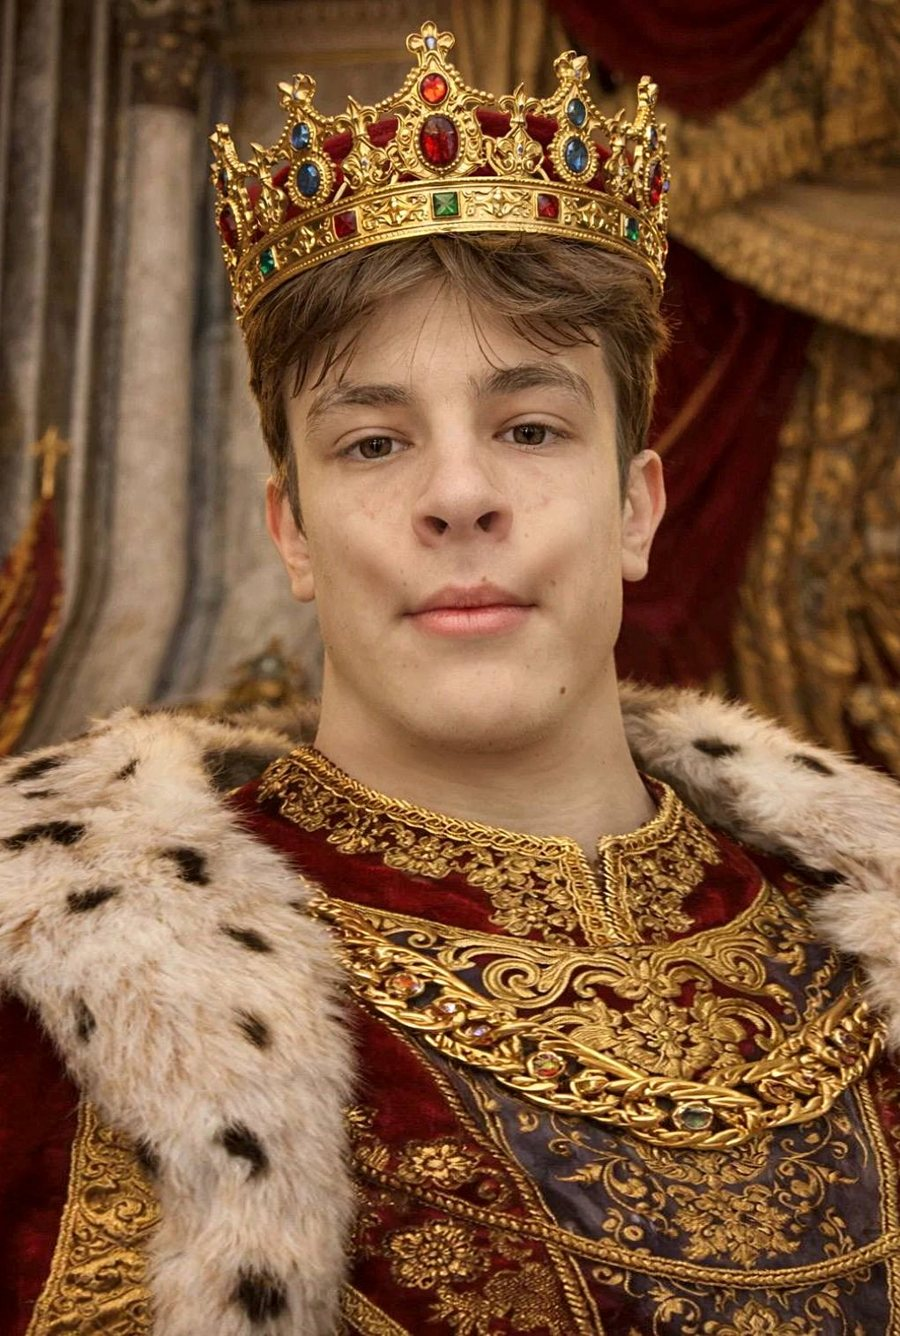
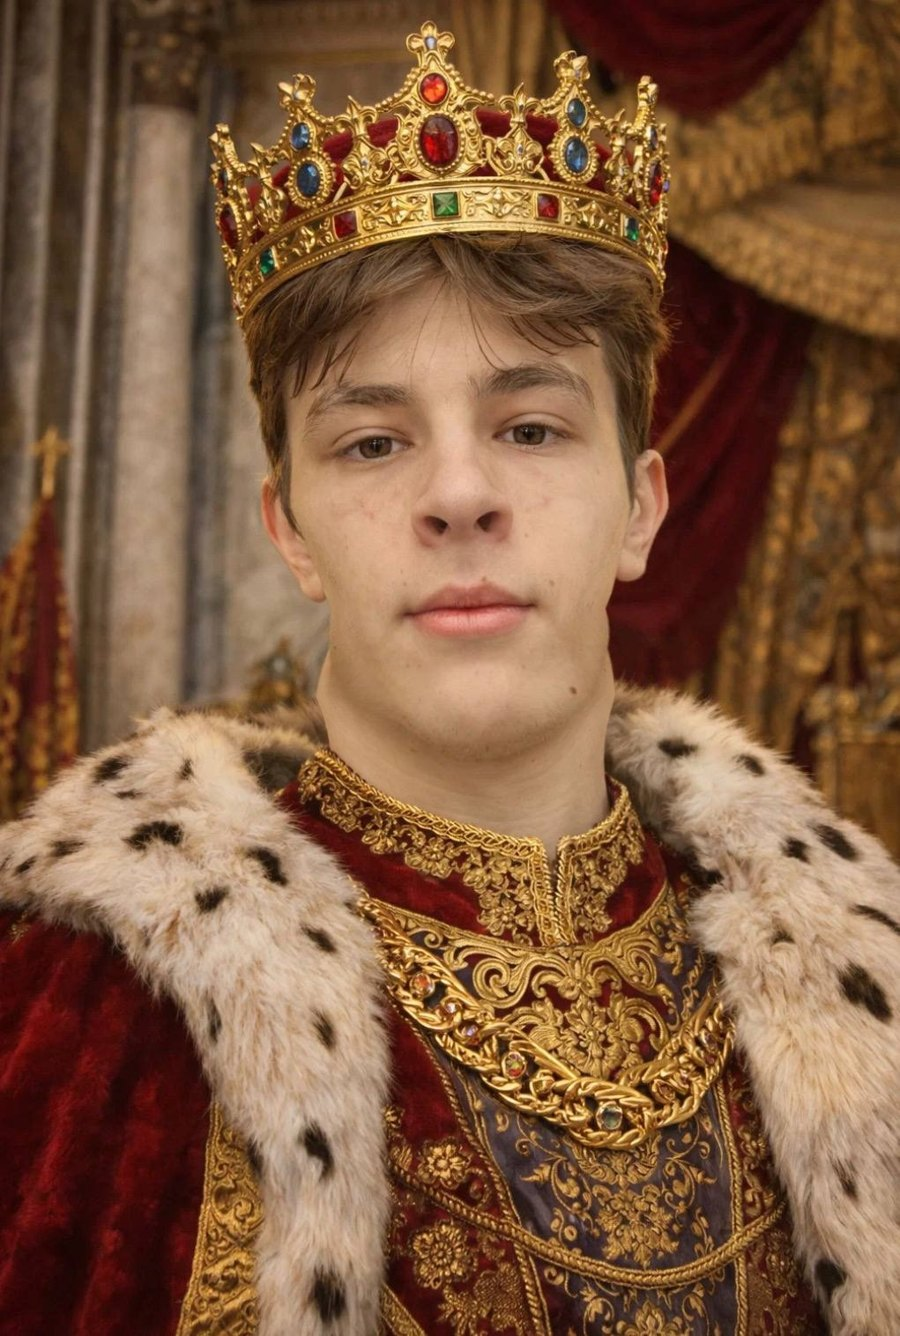
YAKIMOVICH: исходное фото, изменена только форма лица (скулы, челюсть, подбородок)
Claude-Session: https://claude.ai/code/session_01LQLBzChsRn3gpfmWhqrBHH

diff --git a/yakimovich/index.html b/yakimovich/index.html
@@ -465,7 +465,7 @@ h1,h2{font-weight:700;letter-spacing:-.03em}
 <main class="stage" data-stage="3" id="s3">
   <div class="wrap stack">
     <section class="card" id="consult">
-      <div class="c-photo"><img src="media/consult.jpg?v=4" alt="YAKIMOVICH" width="900" height="1336" loading="lazy" decoding="async"></div>
+      <div class="c-photo"><img src="media/consult.jpg?v=5" alt="YAKIMOVICH" width="900" height="1336" loading="lazy" decoding="async"></div>
       <span class="label">Бесплатная консультация · 30 минут</span>
       <h2>Соберём твой личный план выхода на <span class="gold">200.000 ₽</span></h2>
       <ul class="gets">
